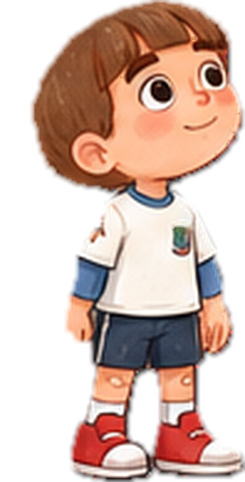
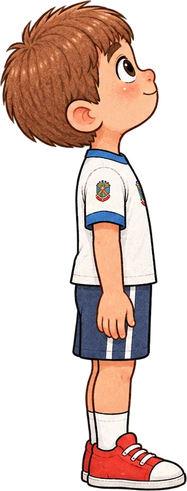
Poses de perfil v4: olhar para cima, para baixo e pegar do chão; sentado com o boneco
- versões com a garra na frente da perna e a mão por cima (no pegar, a garra aponta para o chão)
- o desenho sentado veio ajoelhado: fica como kneel, e na cadeira ele usa o boneco

Claude-Session: https://claude.ai/code/session_01PVcgpF37vhDNSTNALVDodv

diff --git a/Design/tools/poses_perfil_v4.py b/Design/tools/poses_perfil_v4.py
@@ -1,0 +1,83 @@
+"""Põe as 4 poses de perfil v4 (olhar para cima, olhar para baixo, pegar do chão, sentado) na folha de quadros.
+Mesma escala da vista de perfil do modelo; sem versão com garra (o jogo desenha a garra na mão: hold + held).
+Uso: python3 -I poses_perfil_v4.py <poses.png> <pasta antonio-frames> [braco-mecanico-aberto.png]"""
+import sys, json
+import numpy as np, cv2
+from PIL import Image
+src, D = sys.argv[1:3]
+fj = f'{D}/frames.json'; meta = json.load(open(fj)); frames = meta['frames']
+MODEL_SIDE_H = 832                                  # altura do perfil no antonio-modelo.png
+s = frames['side']['size'][1] / MODEL_SIDE_H        # a folha veio na mesma escala do modelo
+a = np.array(Image.open(src).convert('RGBA'))
+n, lab, st, _ = cv2.connectedComponentsWithStats((a[..., 3] > 40).astype(np.uint8), 8)
+figs = sorted([i for i in range(1, n) if st[i, 4] > 3000], key=lambda i: st[i, 0])
+for name, i in zip(['lookUp', 'lookDown', 'pickUp', 'kneel'], figs):   # kneel: ajoelhado (sentado na cadeira é o boneco)
+    x, y, w, h = st[i, :4]
+    m = cv2.dilate((lab[y:y + h, x:x + w] == i).astype(np.uint8), np.ones((3, 3), np.uint8)) > 0
+    c = a[y:y + h, x:x + w].copy(); c[~m, 3] = 0
+    hsv = cv2.cvtColor(np.ascontiguousarray(c[..., :3]), cv2.COLOR_RGB2HSV).astype(int)
+    skin = ((hsv[..., 0] <= 20) & (hsv[..., 1] > 50) & (hsv[..., 2] > 140) & (c[..., 3] > 100)).astype(np.uint8)
+    # mão da frente: pele abaixo da cabeça; em pé = ponta de baixo do braço; agachado/sentado = ponta da frente
+    skin[: int(h * (0.4 if name in ('lookUp', 'lookDown') else 0.55))] = 0
+    if name in ('lookUp', 'lookDown'): skin[int(h * 0.72):] = 0
+    nn, ll, ss, cc = cv2.connectedComponentsWithStats(skin, 8)
+    arm = ll == 1 + int(np.argmax(ss[1:, 4]))
+    ys, xs = np.where(arm)
+    if name in ('lookUp', 'lookDown'):
+        sel = ys >= np.percentile(ys, 75)
+    else:
+        sel = xs >= np.percentile(xs, 85)
+    hand = (float(xs[sel].mean()), float(ys[sel].mean()))
+    im = Image.fromarray(c).resize((round(w * s), round(h * s)), Image.LANCZOS)
+    im.save(f'{D}/{name}.png')
+    A = np.array(im)[..., 3] > 0; hh, ww = A.shape
+    if name == 'kneel':
+        # pivô = bumbum: ponto mais baixo da metade de trás (o pé fica à frente)
+        back = A[:, : int(ww * 0.45)]; by = np.where(back.any(1))[0].max()
+        bx = float(np.where(back[by - 3:by + 1].any(0))[0].mean())
+        pivot = [round(bx / ww, 4), round(1 - by / hh, 4)]
+    else:
+        pivot = [round(float(np.where(A[int(hh * 0.12):int(hh * 0.5)])[1].mean()) / ww, 4), 0.0]
+    frames[name] = {'file': f'assets/characters/antonio-frames/{name}.png', 'size': [ww, hh], 'pivot': pivot,
+                    'hold': {'hand': [round(hand[0] * s, 1), round(hand[1] * s, 1)], 'flip': False, 'angle': 0}}
+    print(name, [ww, hh], pivot, frames[name]['hold']['hand'])
+json.dump(meta, open(fj, 'w'), indent=1, ensure_ascii=False)
+
+# ---- versões com o braço mecânico: garra na frente da perna, a mão por cima da pegada ----
+# (nas poses de perfil a garra atrás do corpo ficaria escondida pela perna)
+ANGLE = {'lookUp': 0, 'lookDown': 0, 'pickUp': 80}     # graus, positivo = ponta da garra vai para a frente
+garra_p = sys.argv[3] if len(sys.argv) > 3 else None
+if garra_p:
+    G0 = Image.open(garra_p).convert('RGBA'); Ga = np.array(G0)
+    hsvg = cv2.cvtColor(np.ascontiguousarray(Ga[..., :3]), cv2.COLOR_RGB2HSV).astype(int)
+    bys, bxs = np.where((hsvg[..., 0] >= 95) & (hsvg[..., 0] <= 130) & (hsvg[..., 1] > 100) & (Ga[..., 3] > 100))
+    gx, gy = float(bxs.mean()), float(bys.mean())
+    REF = meta['refHeight']; gs = 0.27 * REF / (Ga.shape[0] - gy)
+    G0 = G0.resize((round(G0.width * gs), round(G0.height * gs)), Image.LANCZOS); gx *= gs; gy *= gs
+    for name, ang in ANGLE.items():
+        f = frames[name]; im = Image.open(f'{D}/{name}.png'); A = np.array(im)
+        hx, hy = f['hold']['hand']
+        # garra girada em volta da pegada
+        pad = int(max(G0.size) * 1.2)
+        big = Image.new('RGBA', (pad * 2, pad * 2)); big.alpha_composite(G0, (int(pad - gx), int(pad - gy)))
+        big = big.rotate(ang, resample=Image.BICUBIC, center=(pad, pad))      # PIL: anti-horário; o quadro olha para a direita
+        bb = big.getbbox(); big = big.crop(bb); ox, oy = pad - bb[0], pad - bb[1]   # pegada dentro do recorte
+        x0, y0 = int(round(hx - ox)), int(round(hy - oy))
+        L, T = max(0, -x0), max(0, -y0); R = max(0, x0 + big.width - im.width); B = max(0, y0 + big.height - im.height)
+        canvas = Image.new('RGBA', (im.width + L + R, im.height + T + B)); canvas.alpha_composite(im, (L, T))
+        canvas.alpha_composite(big, (x0 + L, y0 + T))
+        # a mão (pele perto do ponto da mão) volta por cima
+        hsv = cv2.cvtColor(np.ascontiguousarray(A[..., :3]), cv2.COLOR_RGB2HSV).astype(int)
+        skin = (hsv[..., 0] <= 20) & (hsv[..., 1] > 50) & (hsv[..., 2] > 140) & (A[..., 3] > 100)
+        yy, xx = np.mgrid[0:A.shape[0], 0:A.shape[1]]
+        near = (xx - hx) ** 2 + (yy - hy) ** 2 <= 26 ** 2
+        hm = cv2.dilate((skin & near).astype(np.uint8), np.ones((5, 5), np.uint8)) > 0
+        hand = A.copy(); hand[~hm, 3] = 0
+        canvas.alpha_composite(Image.fromarray(hand), (L, T))
+        canvas.save(f'{D}/{name}-garra.png')
+        px, py = f['pivot']
+        f['fileHolding'] = f'assets/characters/antonio-frames/{name}-garra.png'
+        f['pivotHolding'] = [round((px * im.width + L) / canvas.width, 4), round((py * im.height + B) / canvas.height, 4)]
+        f.pop('hold', None)          # a garra já está no desenho
+        print(name, 'com garra', canvas.size)
+    json.dump(meta, open(fj, 'w'), indent=1, ensure_ascii=False)

diff --git a/README.md b/README.md
@@ -145,7 +145,9 @@ braço mecânico.
 O Antônio **anda e pula** com um boneco recortado em partes (cabeça, tronco com o short, braço de cima e antebraço, coxa e
 canela com o pé, de frente e de trás) e um ciclo de caminhada feito por código (`World/CutoutRig.cs`, `ApplyWalk`).
 Parado ele usa a frente do modelo v4 (`Design/tools/quadros_modelo_v4.py`, com a garra desenhada na mão pelo jogo);
-falando, sentado e nas interações ainda usa as poses desenhadas antigas (folha de poses v3) até chegar a folha nova.
+pisca e fala com os rostos novos (`Design/tools/rostos_frente.py`); olhar para cima/baixo e pegar do chão vêm de
+`Design/personagens/v4/antonio-poses-perfil.png` (`Design/tools/poses_perfil_v4.py`, que também gera a versão com a garra
+na frente da perna). Sentado na cadeira ele usa o boneco (`ApplySit`); o desenho ajoelhado da folha ficou como `kneel`.
 
 - Partes: `Assets/Resources/EP01/assets/characters/antonio-rig4/` + `rig.json` (pivôs das juntas, ordem de desenho,
   `stride` = passo em fração da altura e `sole` = calcanhar e ponta de cada pé).
